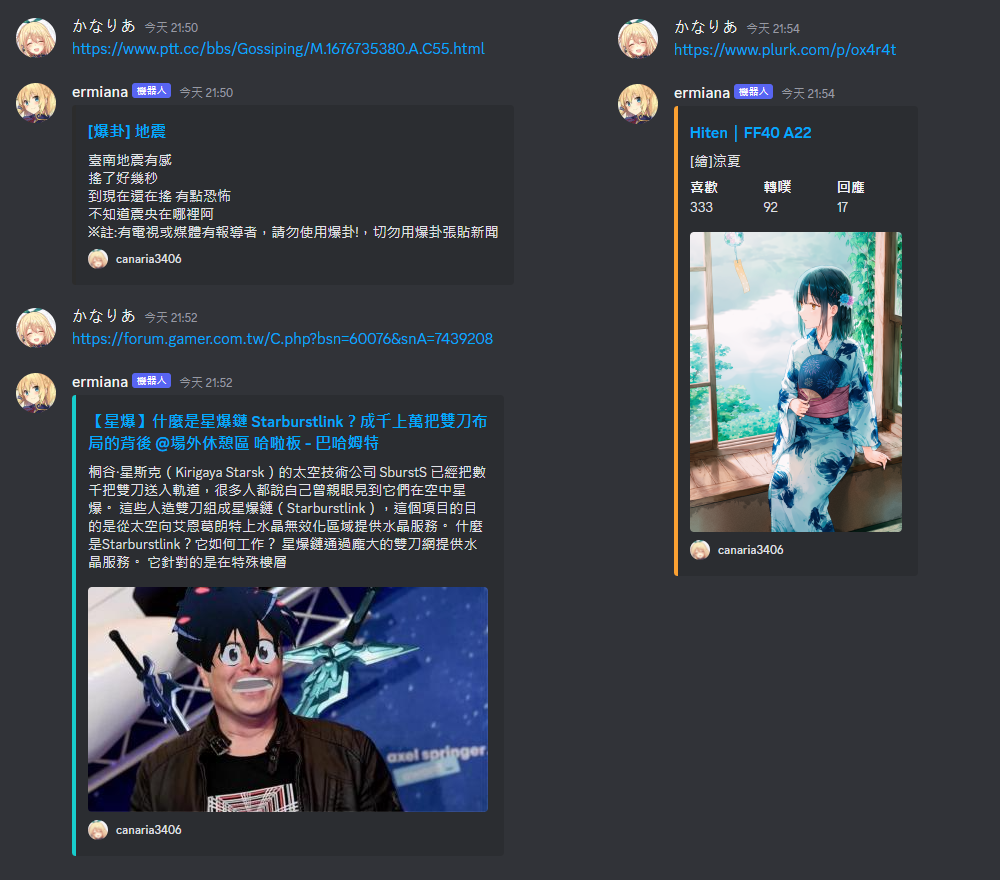
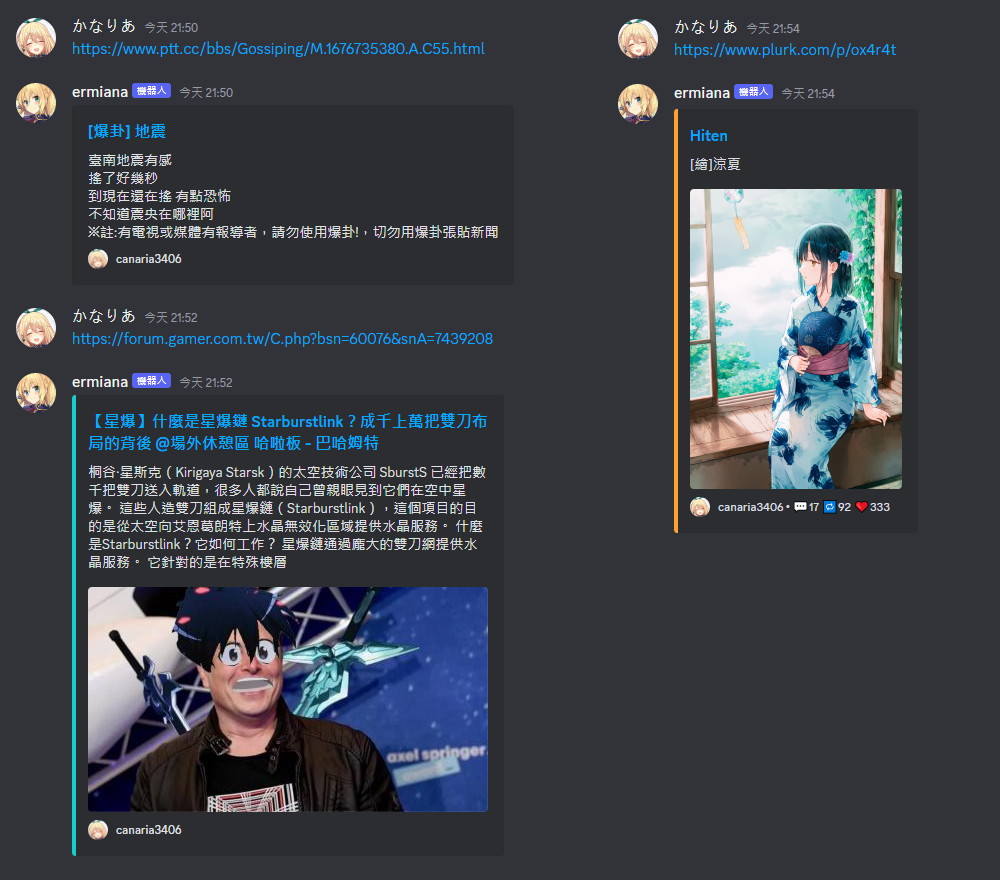
update plurk info

Changed region(s): [[0.651, 0.1227, 0.899, 0.6443], [0.744, 0.1227, 0.806, 0.1534]]

diff --git a/regex/handlePlurkRegex.js b/regex/handlePlurkRegex.js
@@ -20,6 +20,8 @@ export async function handlePlurkRegex( result, message ){
         const favPlurk = $("script").text().match(/"favorite_count": (\d+),/)[1] || "0";
         const respPlurk = $("script").text().match(/"response_count": (\d+),/)[1] || "0";
 
+        const plurkInfo = " • 💬" + respPlurk + " 🔁" + rePlurk + " ❤" + favPlurk;
+
         const plurkEmbed = new EmbedBuilder();
         plurkEmbed.setColor(16556594);
         plurkEmbed.setTitle($(".name").text());
@@ -27,15 +29,15 @@ export async function handlePlurkRegex( result, message ){
         try {
             plurkEmbed.setDescription($(".text_holder").text());
         } catch{}
-        plurkEmbed.addFields(
-            { name: "喜歡", value: favPlurk, inline : true},
-            { name: "轉噗", value: rePlurk, inline : true},
-            { name: "回應", value: respPlurk, inline : true}
-        );
+        //plurkEmbed.addFields(
+        //    { name: "喜歡", value: favPlurk, inline : true},
+        //    { name: "轉噗", value: rePlurk, inline : true},
+        //    { name: "回應", value: respPlurk, inline : true}
+        //);
         try {
             plurkEmbed.setImage($("script").text().match(/https:\/\/images\.plurk\.com\/[^"]+\.(jpg|png)/)[0]);
         } catch{}
-        plurkEmbed.setFooter({ text: "canaria3406", iconURL: "https://cdn.discordapp.com/avatars/242927802557399040/1f3b1744568e4333a8889eafaa1f982a.png"});
+        plurkEmbed.setFooter({ text: "canaria3406" + plurkInfo, iconURL: "https://cdn.discordapp.com/avatars/242927802557399040/1f3b1744568e4333a8889eafaa1f982a.png"});
         
         embedSuppresser(message);
         

diff --git a/README.md b/README.md
@@ -35,16 +35,16 @@ git clone https://github.com/canaria3406/ermianaJS.git
 
 ![demo](pic/demo3.png)
 
-![demo](pic/demo4.png)
-
 ![demo](pic/demo5.png)
+
+![demo](pic/demo4.png)
 
 ## Support
 
 - [x] Community
-  - [x] ptt.cc
-    - [x] [八卦] Gossiping
-    - [x] [裏洽] AC_IN
+  - [x] PTT.cc
+    - [x] Gossiping
+    - [x] AC_IN
   - [x] 巴哈姆特電玩資訊站
     - [x] 場外休憩區
   - [ ] Dcard
